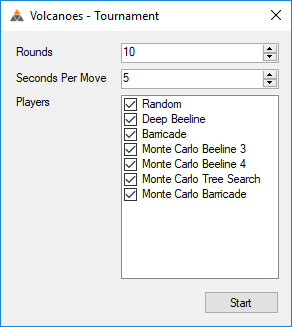
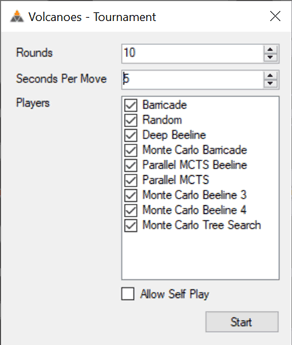
Update rules to latest version
Introduce dormant volcanoes after an eruption. Volcanoes erupt at level-four. Eruptions destroy adjacent enemy volcanoes and spawn level-one-volcanoes on adjacent empty spaces.

Update readme to reflect new rules.

Update order of AI so they're in approximate order of strength, weakest to strongest.

Changed region(s): [[0.0, 0.0, 1.0, 1.0], [0.9247, 0.0306, 0.9555, 0.0612]]

diff --git a/Volcanoes/GameForm.cs b/Volcanoes/GameForm.cs
@@ -50,15 +50,15 @@ namespace Volcano
             gameTimer.Start();
 
             engines = new EngineHelper();
+            engines.Add<BarricadeEngine>("Barricade");
             engines.Add<RandomEngine>("Random");
             engines.Add<DeepBeelineEngine>("Deep Beeline");
-            engines.Add<BarricadeEngine>("Barricade");
+            engines.Add<MonteCarloBarricadeEngine>("Monte Carlo Barricade");
+            engines.Add<MonteCarloBeelineRandParallelEngine>("Parallel MCTS Beeline");
+            engines.Add<MonteCarloTreeSearchParallelEngine>("Parallel MCTS");
             engines.Add<MonteCarloBeelineThreeEngine>("Monte Carlo Beeline 3");
             engines.Add<MonteCarloBeelineFourEngine>("Monte Carlo Beeline 4");
             engines.Add<MonteCarloTreeSearchEngine>("Monte Carlo Tree Search");
-            engines.Add<MonteCarloBarricadeEngine>("Monte Carlo Barricade");
-            engines.Add<MonteCarloTreeSearchParallelEngine>("Parallel MCTS");
-            engines.Add<MonteCarloBeelineRandParallelEngine>("Parallel MCTS Beeline");
             //engines.Add<MonteCarloBeelineParallelEngine>("Parallel MCTS Beeline Full");
             //engines.Add<MonteCarloBeelineParallelDeepEngine>("Parallel MCTS Beeline Sim");
 
@@ -226,7 +226,7 @@ namespace Volcano
                 selfPlayToolStripMenuItem.Enabled = false;
 
                 string date = DateTime.Now.ToString("yyyyMMddhhmmss");
-                 
+
                 Tournament tourney = new Tournament(form.Rounds, form.SecondsPerMove, gameFolder + "tourney-table-" + date + ".csv", gameFolder + "tourney-data-" + date + ".csv", engines, form.Engines, form.SelfPlay || form.Engines.Count == 1);
                 tourney.OnTournamentCompleted += Tourney_OnTournamentCompleted;
                 tourney.OnTournamentStatus += Tourney_OnTournamentStatus;
@@ -466,7 +466,7 @@ namespace Volcano
 
         private void chkShowTileLocations_Click(object sender, EventArgs e)
         {
-            settings.ShowTileNames = chkShowTileLocations.Checked; 
+            settings.ShowTileNames = chkShowTileLocations.Checked;
         }
     }
 }

diff --git a/Volcanoes/Game/GameSettings.cs b/Volcanoes/Game/GameSettings.cs
@@ -11,16 +11,16 @@ namespace Volcano.Game
     class GameSettings
     {
         public int MaxMagmaChamberLevel = 0;
-        public int MaxVolcanoLevel = 5;
+        public int MaxVolcanoLevel = 4;
 
-        public int EruptOverflowEmptyTileAmount = 0;
+        public int EruptOverflowEmptyTileAmount = 1;
         public int EruptOverflowFriendlyTileAmount = 1;
-        public int EruptOverflowEnemyTileAmount = -5;
+        public int EruptOverflowEnemyTileAmount = -4;
         public bool EruptOverflowAllowCapture = false;
 
         public bool AllowMagmaChamberCaptures = false;
         public bool AllowVolcanoCaptures = false;
-        public bool AllowDormantVolcanoes = false;
+        public bool AllowDormantVolcanoes = true;
 
         public int TournamentAdjudicateMaxTurns = 500;
         public int TournamentAdjudicateMaxSeconds = 60 * 30;

diff --git a/README.md b/README.md
@@ -10,8 +10,8 @@ opposite sides of the [Pentakis Icosidodecahedron](https://en.wikipedia.org/wiki
 ### On your turn you may
 1. Place a level 1 volcano of your color on an empty tile
 2. Progress one of your tiles one level on the growth track
-   * Level 5 volcanoes erupt with the following effects
-      * The level 5 volcano turns back into a level 1 volcano
+   * Level 4 volcanoes erupt with the following effects
+      * The level 4 volcano becomes dormant (it no longer grows)
       * The tiles adjacent to the erupting volcano are affected in the following ways
          * Friendly volcanoes progress one level on the growth track
          * Enemy volcanoes are destroyed and become empty tiles
@@ -27,11 +27,16 @@ opposite sides of the [Pentakis Icosidodecahedron](https://en.wikipedia.org/wiki
 This cycle repeats until a player wins by successfully connecting a pair of antipodes (tiles directly opposite each other). 
 
 ## Engines
-Several computer AIs are included with Volcanoes. Here are the current rankings from a recent round robin tournament.
+Several computer AIs are included with Volcanoes. Here are the current rankings from a recent round robin tournament:
 
 ![Engine Cross Table](Concept/History/z-cross-table-20200125.png)
 
 Our goal is to learn strategies for this game through the analysis of games played by computer AIs.
+
+More information about the last two columns:
+
+* CS = Cumulative Score (number of wins)
+* NS = [Neustadtl Score](https://en.wikipedia.org/wiki/Sonneborn%E2%80%93Berger_score) (tie break score; basically a score weighted by strength of opposition where a win against a stronger opponent is worth more)
 
 ## Features
 Most engines report their progress while searching for the best move.
@@ -46,8 +51,8 @@ Run round robin tournaments with the provided engines to get cross tables and de
 
 ![Board Rotation](Concept/History/z-history-20181231d.png)
 
-Player One | Player Two | Winner | Termination | Total Moves | Total Milliseconds | Starting Tile Index | Transcript
---- | --- | --- | --- | --- | --- | --- | ---
-Barricade | Monte Carlo Tree Search | Two | Normal | 54 | 130188 | 64 | 17A 18D G 10C 10A G 5D 20D G 8B 8A G 13D 4C G 2B 2A G 3B 3A G 11C 3C G 15D 20B G 18C 18B G 19A 18D G 2C 19B G 19D 14C G 20D 20C G 12A 7D G 7A 10B G 7C 3D G 7A 4B G
-Monte Carlo Tree Search | Barricade | One | Normal | 51 | 108007 | 70 | 18C 13B G 18A 6B G 9B 9A G 14D 16D G 9D 13C G 14B 1A G 3B 3A G 17A 20A G 12A 12C G 4D 3D G 5B 16C G 8A 17D G 1B 8B G 10A 7A G 1C 19B G 15D 16B G 4B 11B G
-
+| Player One              | Player Two    | Winner | Termination | Total Moves | Total Milliseconds | Starting Tile Index | Transcript                                                                                                                            | Winning Path                                    |
+| ----------------------- | ------------- | ------ | ----------- | ----------- | ------------------ | ------------------- | ------------------------------------------------------------------------------------------------------------------------------------- | ----------------------------------------------- |
+| Monte Carlo Tree Search | Parallel MCTS | Two    | Normal      | 39          | 152276             | 1                   | N01 N19 G N03 N04 G S24 N15 G S17 N17 G S15 N04 G N23 S04 G S34 S01 G S13 S03 G S10 S13+ G S03 S02 G S02+ S03+ G N19 N05 G S04 N19+ G | N13 N03 N04 N05 N19 N20 N39 N38 S28 S29 S12 S13 |
+| Monte Carlo Tree Search | Parallel MCTS | One    | Normal      | 19          | 109903             | 46                  | S39 N24 G S03 S10 G N11 S08 G N04 S01 G N19 S02 G N01 N07 G S02                                                                       | N10 N11 N27 N28 S38 S39 S20 S19 S05 S01 S02 S10 |
+| Monte Carlo Tree Search | Parallel MCTS | Two    | Normal      | 28          | 87456              | 7                   | N09 N07 G N11 N10 G N21 N11+ G N39 N02 G N14 N13 G N01+ N04 G N02 N05+ G N04 N16 G N16+ N03+ G N04                                    | N38 N37 N18 N19 N05 N04 N03 N13 N12 N29 N28 S38 |
